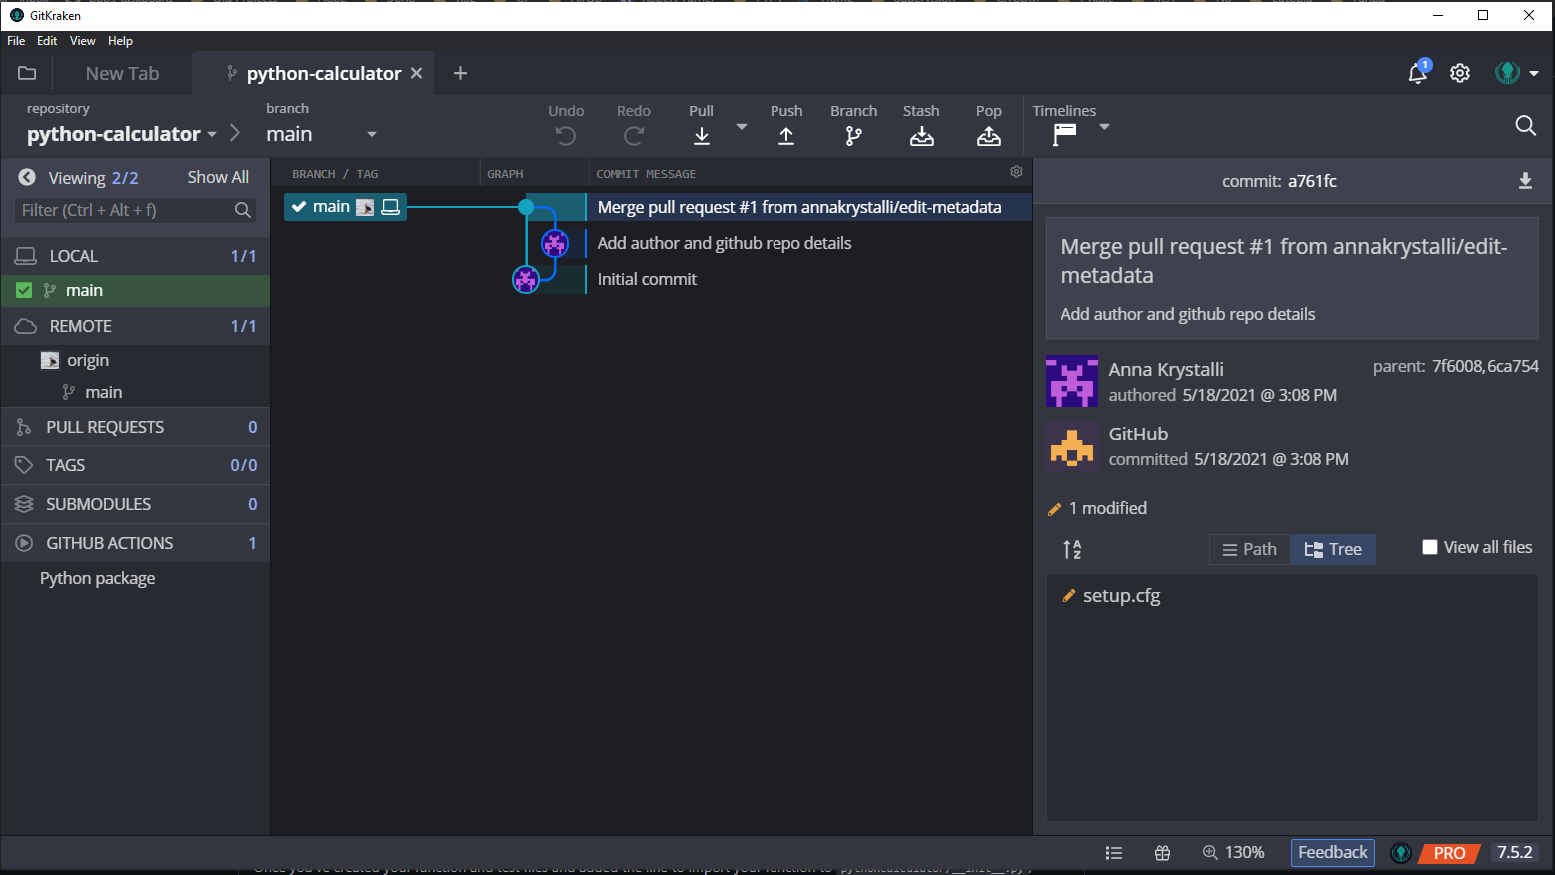
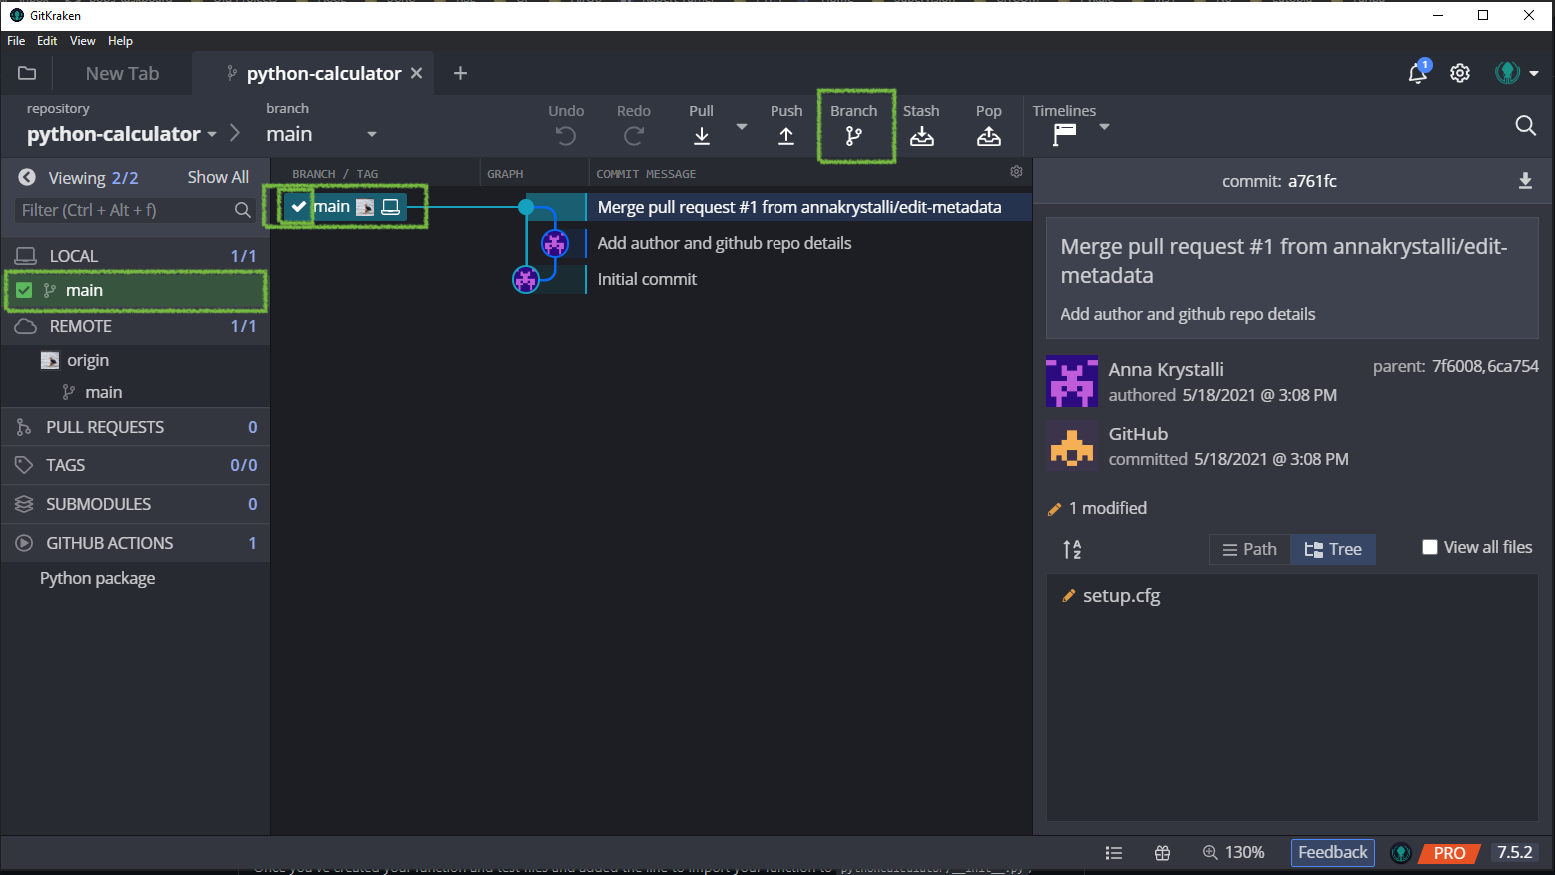
add issue workflow

Changed region(s): [[0.0, 0.3086, 0.1852, 0.3703], [0.1543, 0.1851, 0.2778, 0.2777], [0.5248, 0.0926, 0.5865, 0.1851]]

diff --git a/content/04-collaborative_github_advanced/03-resolve-issues-in-branches.md b/content/04-collaborative_github_advanced/03-resolve-issues-in-branches.md
@@ -4,25 +4,187 @@ date =  2021-05-13T17:58:45+03:00
 weight = 3
 +++
 
+
+
+A **powerful tool for keeping track of tasks, enhancements, and bugs for your projects is the issues** feature of GitHub. You can access the issues associated with a repository through the <i class="fas fa-exclamation-circle"></i> **Issues** tab.
+
+They allow **storing conversations about tasks in the project repository**, visible to the whole team throughout the life cycle of the project, rather that them being buried in hard to navigate email chains! 💯 
+
+It's also **easy to see the status of tasks** as issues can be closed when completed, leaving the tasks still pending visible by default.
+
+You can **write in markdown** so they are **great for having discussions around code**.
+
+They can also be **assigned** to a specific team member, **labelled** and associated with specific project **milestones**.
+
+
+
+{{% notice info %}}
+
+For more information, check out the [Mastering Issues](https://guides.github.com/features/issues/) GitHub Guide
+
+{{% /notice %}}
+
 ## <i class="fas fa-user-circle"></i> Open and assign issues
 
+To organise the tasks for each team member, **the owner will first open an issue for each person** which will contain detailed instructions on how to complete the task.
+
+I've actually used a nice feature of issues to make this easy for owners called **GitHub Issue templates**. The markdown files that power the feature are stored in the `.github/ISSUE_TEMPLATE` folder of the project. Let's see how they work.
+
+{{% notice info %}}
+
+For more information, check out [Configuring issue templates for your repository](https://docs.github.com/en/communities/using-templates-to-encourage-useful-issues-and-pull-requests/configuring-issue-templates-for-your-repository) in the GitHub Docs
+
+{{% /notice %}}
+
+
+
+### <i class="fas fa-user-circle"></i> Open issue from templates
+
+To create a new issue navigate to the <i class="fas fa-exclamation-circle"></i> **Issues** tab 
+
+{{< figure src="/images/ag-issues-tab.png" >}}
+
+Click {{% button href="" %}} **New issue** {{% /button %}} 
+
+{{< figure src="/images/ag-issue-init.png" >}}
+
+Because we are using GitHub Issue templates, we are immediatelly presented with the 3 issue templates I've created. 
+
+To demonstrate, I'm going to open the **Add subtraction function** issue. To initiate the process, I click on {{% button href="" %}} **Get started** {{% /button %}} next to the issue template I want  to open.
+
+_You can override the templates and create an issue with custom content by clicking on_ ***Open a blank issue*** _at the bottom of the page._
+
+{{< figure src="/images/ag-issue-sub-init.png" >}}
+
+### <i class="fas fa-user-circle"></i> Inspect issue content
+
+Because we're working from an issue template, the title and contents of the issue are already pre-populated.
+
+The contents of this particular issue contain detailed step-by-step instructions on how to **add a `subtract` function as well as a test** to our `pythoncalculator` package. At the top of the issue there's also a **checklist** of all the steps involved which team mates can use to **keep track of and communicate their progress**.
+
+The **special `-[ ]` list notation** means the **checkboxes will be interactive** when the issue is submitted.
+
+When we're creating our issue, the main body contains two tabs:
+
+- **Write:** were you enter the contents of the issue in markdown
+- **Preview:** were you can preview what the content will look like when it is rendered once the issue is submited. 
+
+Toggle the tabs below to explore this feature. Note how the checklist is rendered in the Preview tab.
+
+{{< tabs groupId="issues" >}}
+{{% tab name="Write" %}}
+{{< figure src="/images/ag-issue-sub.png" >}}
+{{% /tab %}}
+{{% tab name="Preview" %}}
+{{< figure src="/images/ag-issue-sub-preview.png" >}}
+{{% /tab %}}
+{{% /tabs %}}
+
+
+
+### <i class="fas fa-user-circle"></i> Assign team mate to issue
+
+Now that I'm happy with the content of the issue (which needs no editing...aren't GitHub issue templates awesome?! 😜), I'm **ready to assign the task to one of my team mates**.
+
+To do this, I click on **Assignees** on the top-right which launches a drop-down menu of team mates associated with the project and **select the team mate I want to assign**.
+
+
+{{< figure src="/images/ag-issue-sub-assign.png" >}}
+
+{{% notice tip %}}
+
+You can **assign an issue to a team mate, add more or remove assignees at any point**, even after you've opened the issue. If your repo is public, **you can also assign issues to users who are not collaborators** on your repo. Just type in their username in the drop down menu textbox. 
+
+{{% /notice %}}
+
+### <i class="fas fa-user-circle"></i> Submit issue
+
+Once I've assigned the issue to a team mate, I click {{% button href="" %}} **Submit new issue** {{% /button %}} to create it.
+
+The issue has now been **opened** and given a unique number (in this case #2). 
+
+{{< figure src="/images/ag-issue-sub-cmpl.png" >}}
+
+{{% notice tip %}}
+
+You can use the special **`#issue-number`** notation anywhere in GitHub's markdown (e.g. other issues, pull requests etc) to refer to it which will add a link to it automatically!
+
+{{% /notice %}}
+
+The issue is also now listed under the <i class="fas fa-exclamation-circle"></i> **Issues** tab.
+
+{{< figure src="/images/ag-issue-sub-list.png" >}}
 
 ## <i class="fas fa-users"></i> Resolve assigned issue
 
-### Example: subtract function issue
+Now that tasks have ben assigned through issues, it's **time for team mates to get to work!**
 
+Let's **follow an example workflow by one of my team mates**, bobturneruk, who will be tackling the _add a subtract function_ issue we I just opened and assigned to him.
+
+### Example: Resolve subtract function issue
+
+#### <i class="fas fa-users"></i> Create `subtract` branch
+
+{{% notice warning %}}
+
+**Make sure to create a new branch to start work in!**
+
+{{% /notice %}}
+
+To begin resolving the task, Bob **first needs to creates a new branch off the `main` branch** to work in. Before that, he checks that his **<i class="fas fa-laptop"></i> local `main` branch** is in synch with the **<i class="fas fa-cloud"></i> origin `main` branch**.
+
+{{% notice tip %}}
+
+If your <i class="fas fa-laptop"></i> local `main` branch is behind the <i class="fas fa-cloud"></i> origin `main` branch, **click on Pull <i class="fas fa-download"></i>** to pull the remote changes to your <i class="fas fa-laptop"></i> local `main` branch.
+
+{{% /notice %}}
+
+Start by clicking the {{% button href="" %}} **Branch** <br> **<i class="fas fa-code-branch"></i>**{{% /button %}} button and **giving the branch an appropriate name** (`subtract`).
 
 {{< figure src="/images/ag-sub-branch-init.png" >}}
 
+The `subtract` branch has now been created and been **checked out** (indicated by the fact that the the **<i class="fas fa-check-square" style="color:#7CFF7E; background-color:black; padding:2px"></i> <i class="fas fa-code-branch"></i> subtract** branch in the **<i class="fas fa-laptop"></i> local** repository is now checked). 
+
 {{< figure src="/images/ag-sub-branch.png" >}}
 
+#### <i class="fas fa-users"></i> Add `subtract.py` file
+
+The next step in Bob's instructions is to create a new `subtract.py` file and paste the code for the `subtract` function.
+
+A nice feature of GitKraken is that, as well as a basic text editor, it also **allows us to create new files!**
+
+To create a new file, **first launch GitKraken's fuzzy finder** with 
 <img src="/images/command-symbol.png" width="2px" style="align:left; display:inline; margin:0;"/> **| Ctrl + P**
+
+Next, type **File**. This launches a dropdown menu of action you can perform on files. Select **Create file**.
+
+{{% notice info %}}
+
+For more information check out the GitKraken documentation on [Adding a file](https://support.gitkraken.com/working-with-files/adding-and-removing/#adding-a-file) and [GitKrake's fuzzy finder](https://support.gitkraken.com/start-here/fuzzy-finder/).
+
+{{% /notice %}}
+
+
 
 {{< figure src="/images/ag-sub-file-create.png" >}}
 
+Next, **type in the path to the new file you want to create**, In Bob's case it's `pythoncalculator/subtract.py` and hit **Enter|Return**.
+
 {{< figure src="/images/ag-sub-file-fun-create.png" >}}
 
+This **creates the new file** and **opens it up for editing!**.
+
+Next, **paste the function code** provided in the issue instructions and save,
+
 {{< figure src="/images/ag-sub-file-fun-edit.png" >}}
+
+We now need to **stage and commit the new file**. Follow the steps we've been practicing and commit your file with an appropriate commit message (e.g `add subtract function`).
+
+{{% notice tip %}}
+
+Including the text `resolves #issue-number-you-were-assigned` will **link the issue to your pull request** and **automatically close it once your pull request has been merged!** ✨ Find out more, including additional keywords you can use to [link pull requests to issues](https://docs.github.com/en/github/managing-your-work-on-github/managing-your-work-with-issues-and-pull-requests/linking-a-pull-request-to-an-issue)
+
+{{% /notice %}}
 
 {{< figure src="/images/ag-sub-file-fun-commit.png" >}}
 
